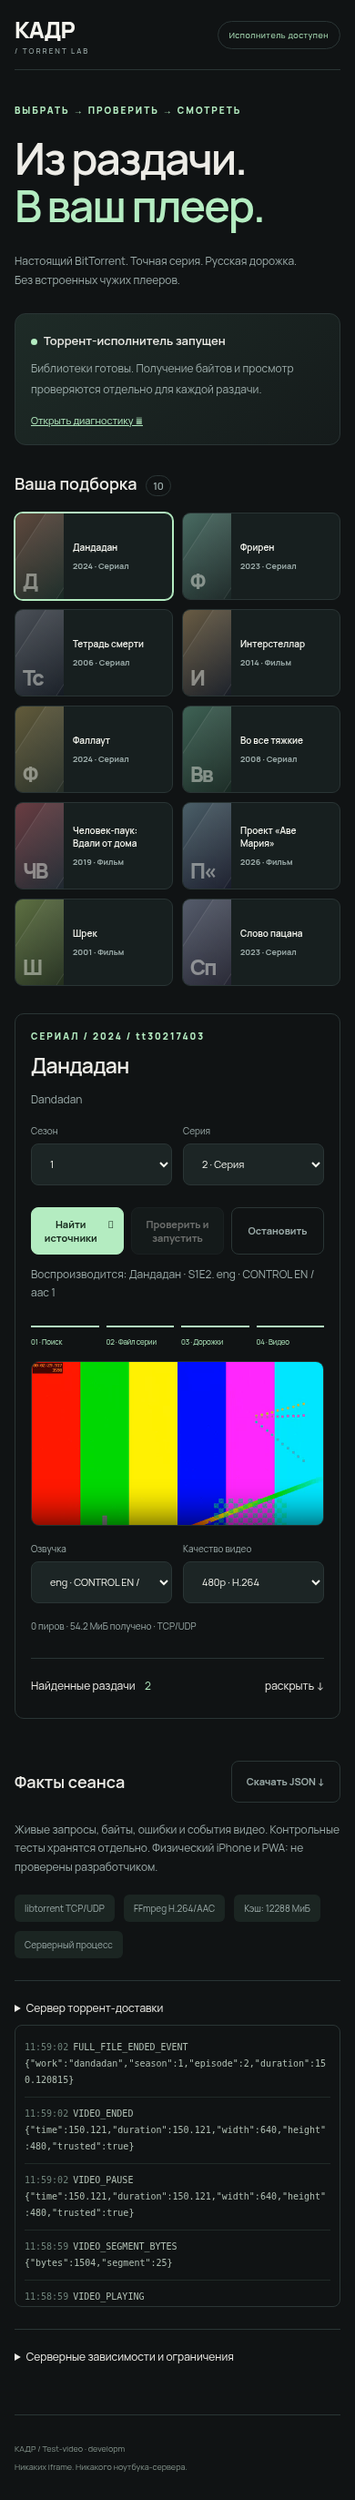
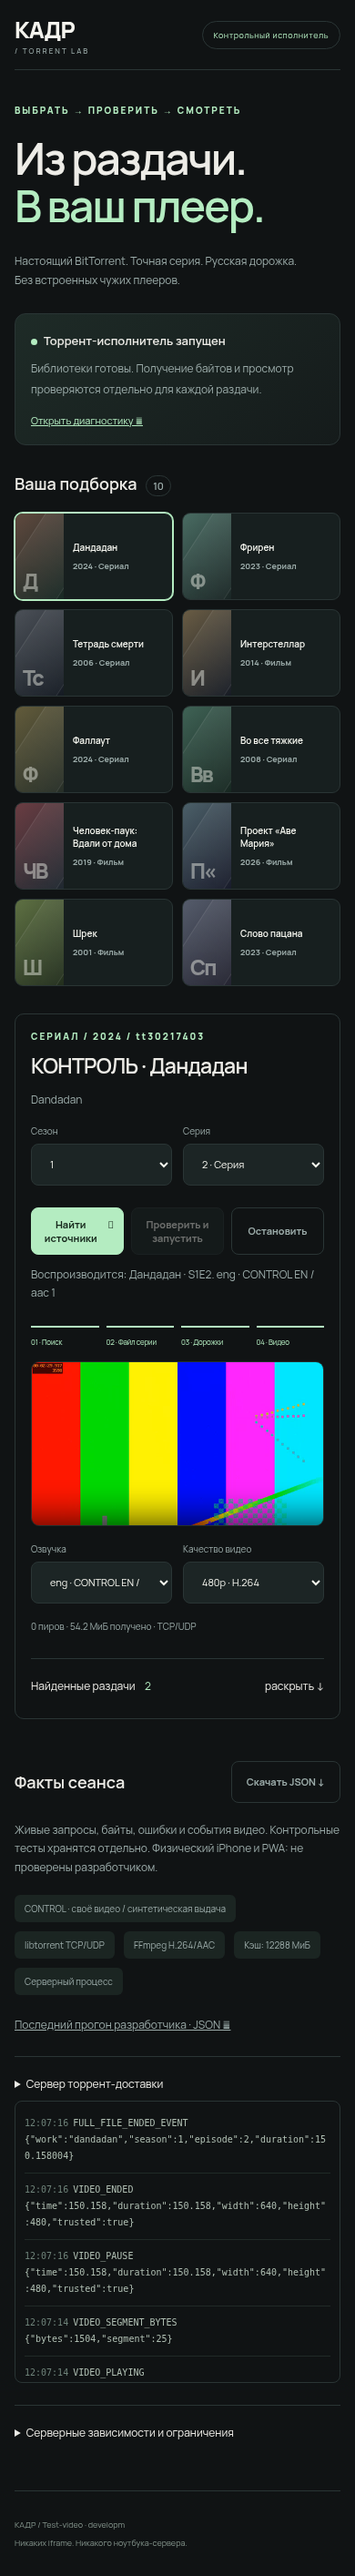
Publish acceptance evidence, explicit control labels and final diagnostics

diff --git a/evidence/REPORT.md b/evidence/REPORT.md
@@ -1,0 +1,123 @@
+# Test-video · результат реализации, 24.10.2026 UTC
+
+Опубликованный адрес: https://test-video-taupe.vercel.app/ . Исходники:
+https://github.com/MawrikBorug/Test-video . Фактический SHA опубликованной сборки:
+https://test-video-taupe.vercel.app/build-info.json . Сводка последней приёмки:
+https://test-video-taupe.vercel.app/verification.json .
+
+**Приёмка обязательной подборки не пройдена. Подтверждённого воспроизведения
+её произведений — 0/10. Ссылка не является заявлением готовности.**
+
+## Реализовано
+
+Исполнитель libtorrent TCP/UDP + FFmpeg и собственный HTMLVideoElement/HLS.
+Iframe, чужие онлайн-плееры и прямые видеосервисы отсутствуют. Точные IMDb из
+исследования сохранены, включая Death Note 2006 и Shrek 2001. Сезон/серия
+передаются отдельно. Список эпизодов запрашивается у Cinemeta; при отказе
+резервные номера явно названы номерами запроса, не подтверждённым каталогом.
+
+Поиск Comet и TorrentsDB, дедупликация с сохранением происхождения, выбор
+исходного качества/заявленной озвучки, проверка infohash, исходного fileIdx,
+пути и размера. Неверный или неоднозначный эпизод отказывается запускаться.
+Исследовательские карты 20 эпизодов перепроверены по реальным info dictionary.
+Пути относительно info.name и полные пути libtorrent согласованы без
+произвольного сравнения одного basename.
+
+ffprobe читает реальные потоки. Русский язык проверяется по language/title;
+неизвестное значение не превращается в русский. FFmpeg готовит H.264/AAC
+480/720/1080 без увеличения разрешения. HLS VOD с отдельными сегментами
+поддерживает дальнюю перемотку и смену потока с сохранением позиции. На iOS
+предусмотрены HLS.js/Managed Media Source и native HLS fallback, playsinline,
+отдельная кнопка возобновления после отказа autoplay. Это реализация,
+не физическая проверка Safari.
+
+При отказе metadata, файла, языка, FFmpeg или fatal HLS автоматически выбирается
+следующая раздача. До 8 попыток за запуск; таймауты ограничены. Отмена и смена
+произведения инвалидируют старые обработчики. Экспорт не содержит подписанного
+playback-задания, временного URL или IP пиров.
+
+## Что проверено положительно
+
+`live-search-matrix.json`: **48/48 настоящих запросов** опубликованного API
+дали torrent-кандидаты. 24 комбинации × 2 аддона. Все 10 произведений, S1E1/S1E2,
+дополнительно S2E1/S2E2 для Дандадана, Фрирен, Fallout и Breaking Bad.
+
+`local-torrent-control.json`: собственный 150-секундный ролик, настоящий
+TCP-сидер libtorrent на loopback. Получены SHA-1-проверенные части. Первый
+сегмент получен до полной загрузки. Сегмент с позиции 120 с декодируется как
+H.264/AAC. Повторное чтение после очистки кэша проверяется отдельно.
+
+`browser-control.json`/PNG: Chromium/Linux, свой плеер; 960×720, кадры и время
+двигаются, дальний seek в незагруженную область, смена двух известных звуковых
+потоков, качество 720→480, реальный ended. Первая намеренно неверная metadata
+даёт отказ, после которого автоматически стартует следующий реальный torrent.
+Поиск этого опыта **синтетический**, медиа — собственный сгенерированный ролик
+с контрольными тонами. Это не прослушивание русской речи коммерческого релиза.
+
+Unit-проверки отделены: три теста нормализации имеют префикс synthetic; пять
+Python-проверок включают реальные metadata и контрольный TCP-транспорт.
+
+## Что не заработало на подборке
+
+В `live-play-*.json` сохранены настоящие попытки опубликованного исполнителя.
+У Слова пацана и Fallout проверены metadata, размер и правильный файл S1E1,
+но **0 пиров, 0 видеобайт**. У остальных проверенных кандидатов — timeout
+metadata/BEP9; где диагностика ещё не была добавлена, значения байтов оставлены
+неизвестными, не дописаны задним числом нулями.
+
+На зафиксированных отказах: DHT nodes 0, native tracker errors 180
+`skipping tracker announce (unreachable)` и 16 `Device or resource busy`.
+Отдельный стандартный HTTPS announce на двух публичных трекерах также не
+вернул доступных пиров. Это наблюдения данной среды/раздач, а не доказательство
+глобальной недоступности этих раздач или запрета BitTorrent у всех клиентов
+Vercel. Конкретная административная причина сетевого отказа не установлена.
+
+Проверен другой путь metadata: HTTPS-кэши с проверкой infohash. У itorrents.org
+обнаружен redirect к itorrents.net; отдельный HTTPS GET .net дал валидный
+torrent выбранного Shrek, совпадающий по infohash. Метаданные не считаются
+видеобайтами; дальнейший результат отражается отдельно в последнем прогоне.
+Torrage вернул 403, btcache — невалидное/не соответствующее hash тело.
+
+Ранние `RESEARCH_FILE_MAP_MISMATCH` были дефектом сравнения корневого пути и
+исправлены. Ранние `EXECUTOR_CAPACITY` связаны с ограничением двух сеансов и
+не доказывают отказ поставщика; выполнены новые ограниченные пробы. Ошибочная
+ранняя команда с неправильным base URL сохранена как
+`INVALID_PROBE_TARGET_CLIENT_BUG`, а не сетевой результат Vercel.
+
+## Публикация и серверные зависимости
+
+Репозиторий Test-video изначально содержал только README. Старый
+MawrikBorug/kadr-video-lab прочитан, не изменён. Основной КАДР не изменён.
+
+GitHub отклонил включение Pages (403). Пользователь предоставил доступ к
+команде Vercel, где создан только новый проект test-video. GitHub Login
+Connection отсутствует, поэтому выполнена прямая загрузка соответствующих
+исходников с SHA. Автодеплой при будущих push не настроен. Проверенный
+публичный production alias — test-video-taupe.vercel.app; другой alias команды
+может требовать Vercel Authentication.
+
+Vercel предоставляет Python Functions и трафик. Настроено 300 с на вызов,
+кэш 256 МиБ на экземпляр, до 2 torrent-сеансов. Между экземплярами постоянной
+affinity нет: подписанное задание позволяет восстановить выбранный torrent.
+Непрерывность длинного фильма на такой схеме не доказана. Платный тариф,
+подписка или карта не подключались. Текущий платёжный план/остаток квот
+команды использованным API не подтверждён; безлимитная бесплатность не заявлена.
+
+Есть Dockerfile для размещения исполнителя и поле HTTPS-адреса в стенде.
+Ноутбук пользователя сервером не назначался. Готового разрешённого постоянного
+бесплатного сервера с доказанным доступом к торрент-пирам в имеющихся
+подключениях не найдено.
+
+## Блокер продолжения
+
+Для завершения требуется доступный облачный исполнитель с разрешённым
+исходящим BitTorrent TCP/UDP и ресурсами FFmpeg; текущие сетевые пробы этого
+не подтвердили. Минимальный следующий доступ — HTTPS/развёртывание такого
+исполнителя либо административная возможность диагностировать и разрешить
+его исходящий P2P. Нужен не новый IMDb, не список magnet и не платный debrid.
+Конкретный платный сервер без решения владельца не выбирался.
+
+После появления этого доступа нужно повторить настоящие медиапробы,
+подтвердить выбор/звучание русского потока, качество, дальний seek, конец
+произведения и затем физические iPhone Safari/PWA. Пока эти пункты NOT_RUN
+или BLOCKED, полную готовность заявлять нельзя.
